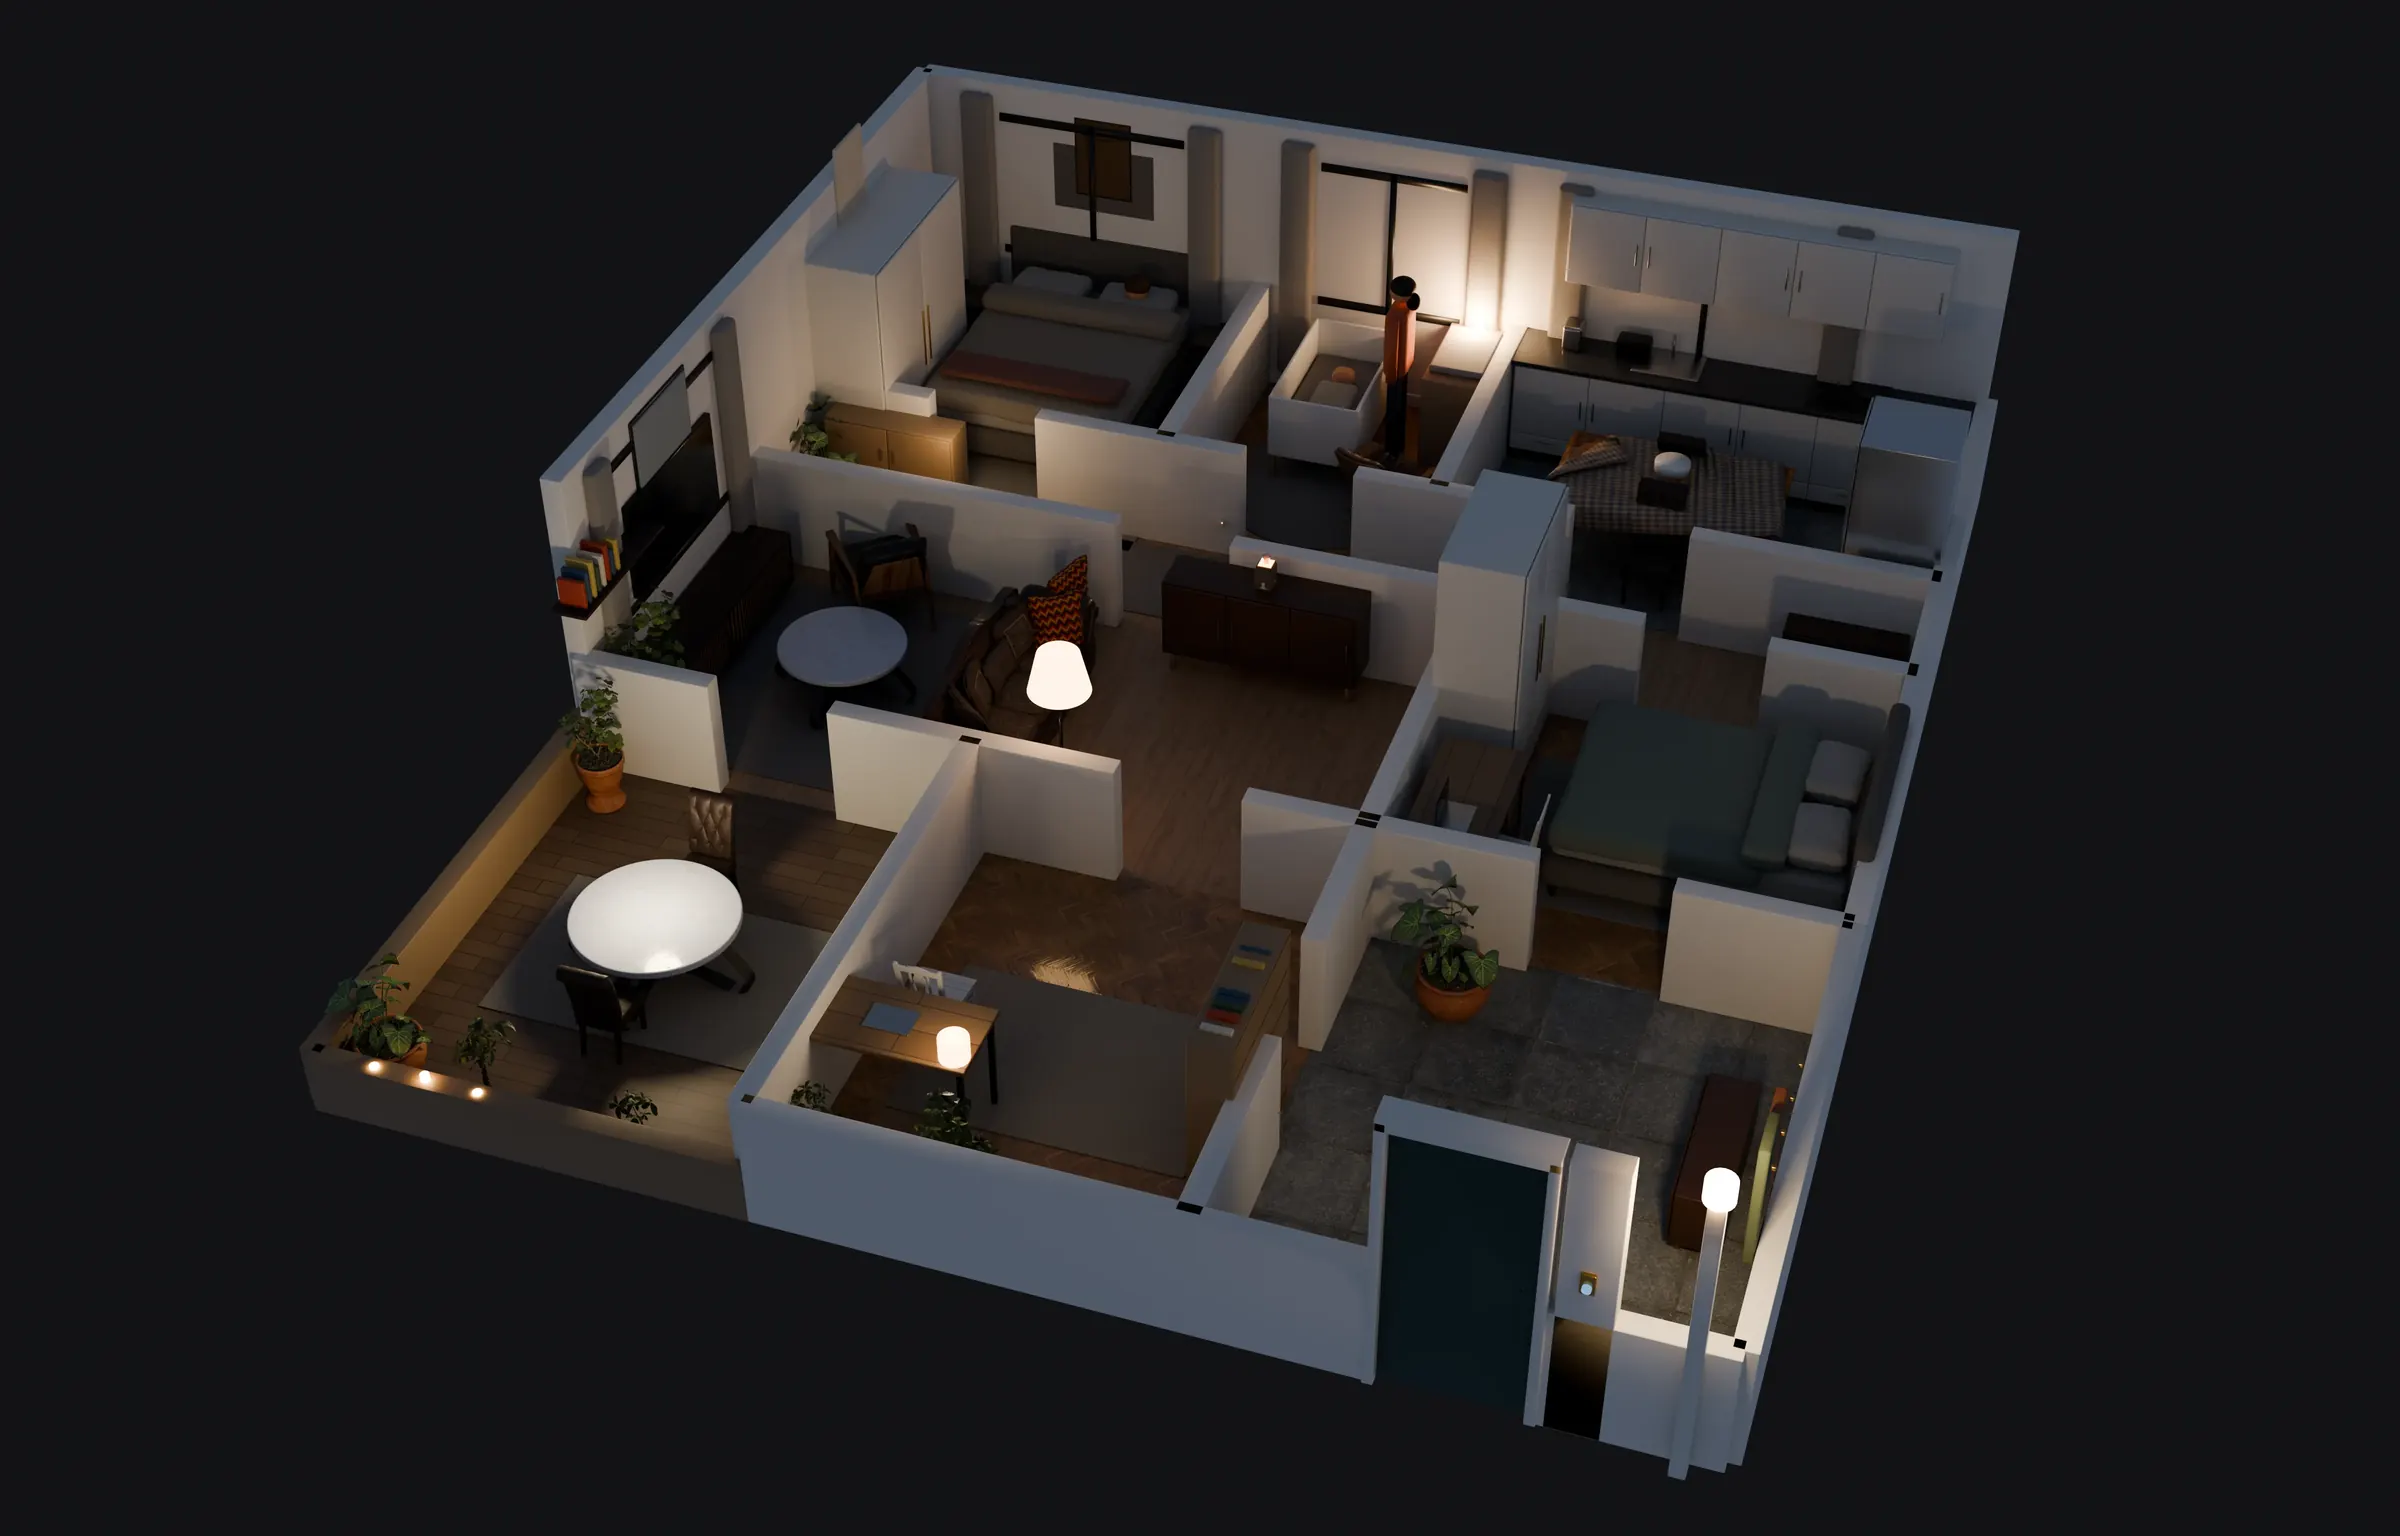
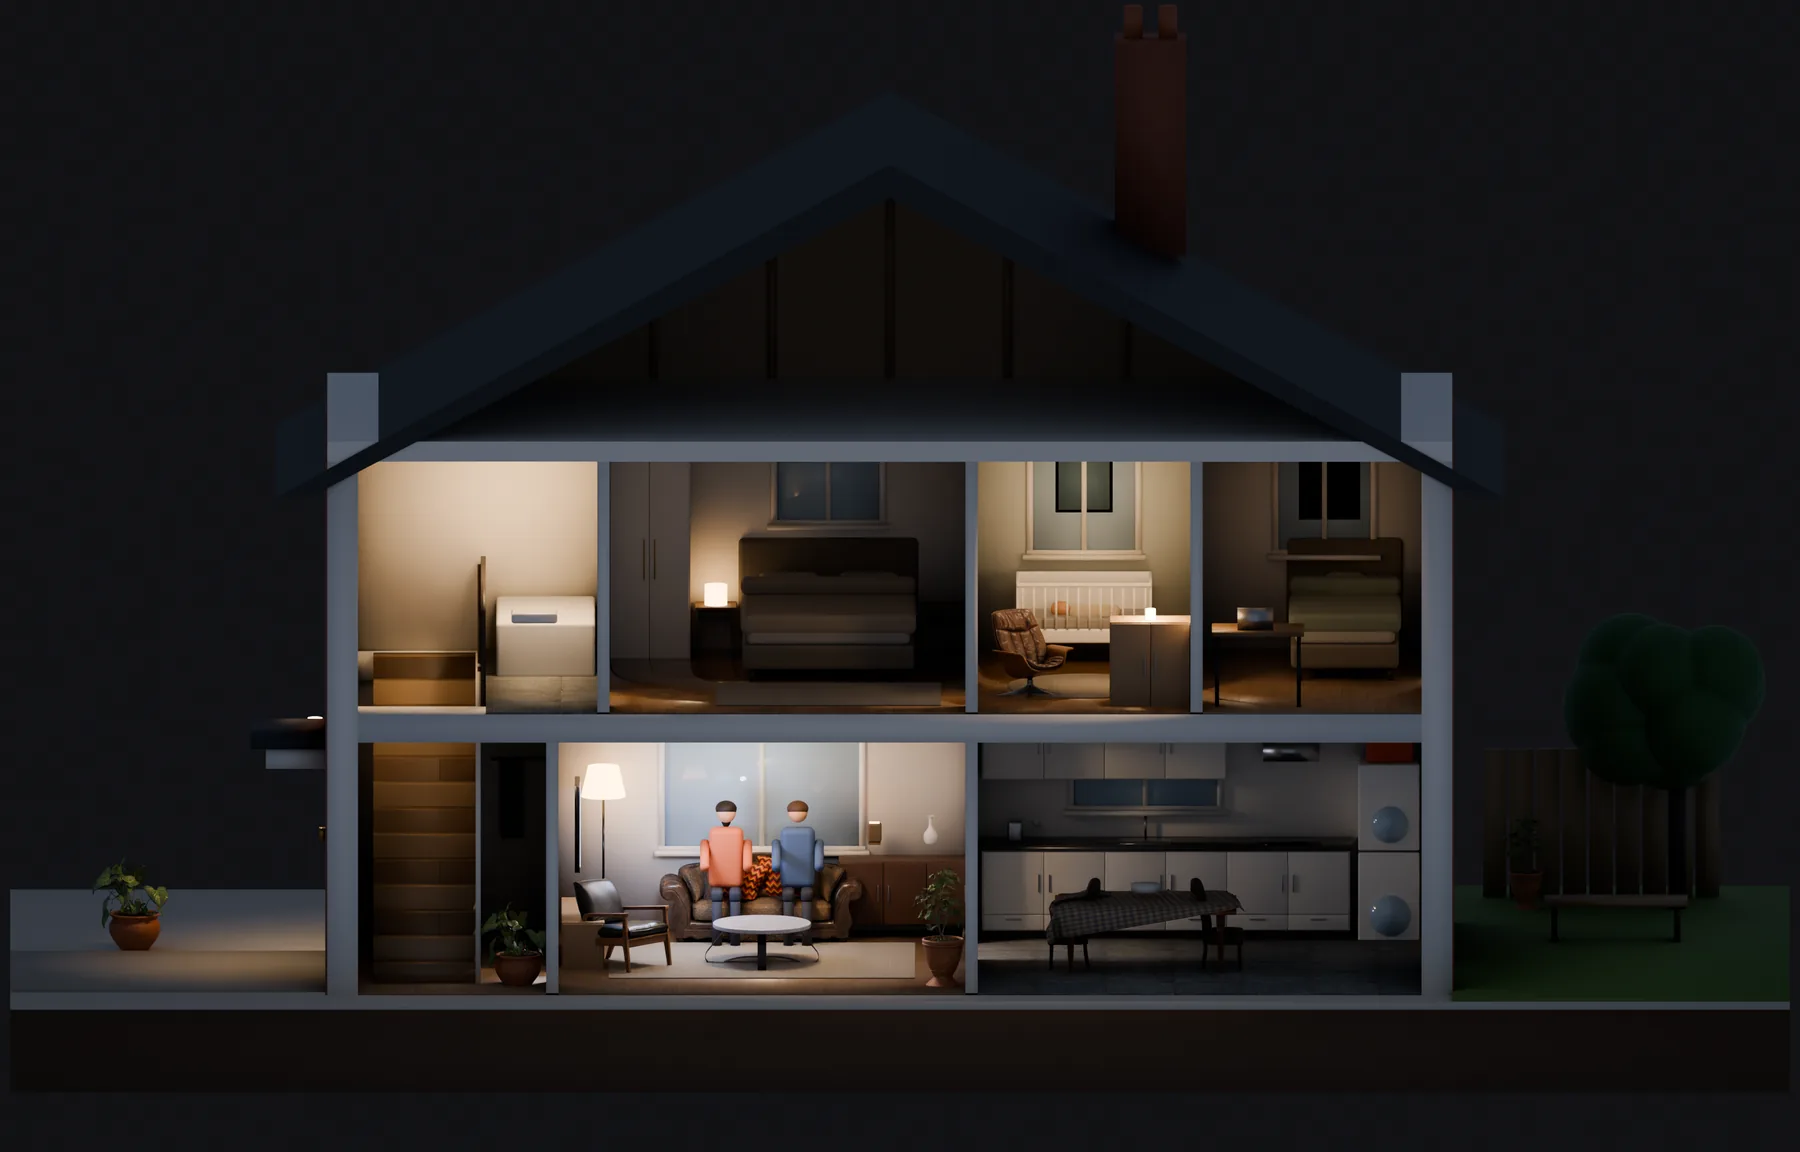
A day with Adam: two-storey cutaway house with a pin on each moment, wider view on desktop

diff --git a/index.html b/index.html
@@ -25,7 +25,7 @@
   <meta name="twitter:description" content="Adam is a £299 home speaker with no cameras. It hears falls, smoke and CO alarms, knocks, glass breaking and a baby crying, then alerts the right person.">
   <meta name="twitter:image" content="https://www.heyintuitive.com/og.png?v=2">
   <link rel="preload" href="assets/fonts/geist.woff2" as="font" type="font/woff2" crossorigin>
-  <link rel="stylesheet" href="site.css?v=203">
+  <link rel="stylesheet" href="site.css?v=204">
   <script>(function(){var c='js opgo';try{if(sessionStorage.getItem('op')||location.hash)c+=' opdone';}catch(e){}document.documentElement.className=c;})();</script>
   <script type="application/ld+json">{"@context": "https://schema.org", "@graph": [{"@type": "Organization", "@id": "https://www.heyintuitive.com/#org", "name": "Intuitive Devices", "alternateName": ["heyintuitive"], "url": "https://www.heyintuitive.com/", "logo": "https://www.heyintuitive.com/logo.png", "image": "https://www.heyintuitive.com/og.png?v=2", "description": "Intuitive Devices is a UK start-up making Adam, a home speaker with no cameras that hears falls, alarms and other events at home and tells the right person.", "address": {"@type": "PostalAddress", "addressCountry": "GB"}, "areaServed": "GB", "email": "support@heyintuitive.com", "contactPoint": {"@type": "ContactPoint", "contactType": "customer support", "email": "support@heyintuitive.com", "areaServed": "GB", "availableLanguage": "en-GB"}}, {"@type": "WebSite", "@id": "https://www.heyintuitive.com/#website", "url": "https://www.heyintuitive.com/", "name": "Adam by Intuitive Devices", "inLanguage": "en-GB", "publisher": {"@id": "https://www.heyintuitive.com/#org"}}, {"@type": "Product", "@id": "https://www.heyintuitive.com/#adam", "name": "Adam", "alternateName": "Adam by Intuitive Devices", "category": "Smart speaker / home safety device", "description": "Adam is a smart speaker with sensors and no cameras. It hears what happens at home (a fall, smoke and CO alarms, a knock at the door, glass breaking, a baby crying), knows who is in which room, and tells the right person. If Adam hears a fall and gets no answer, it alerts family and then calls 999. The sound itself never leaves the home. It also orders and books with your OK, sends messages and emails, keeps the family calendar, gives a morning briefing, runs reminders and routines, answers out loud, and works with your existing AI assistant, apps and smart devices.", "image": ["https://www.heyintuitive.com/og.png?v=2", "https://www.heyintuitive.com/frames/box.webp?v=15"], "brand": {"@type": "Brand", "name": "Intuitive Devices"}, "manufacturer": {"@id": "https://www.heyintuitive.com/#org"}, "color": "Charcoal, Chalk, Sand", "additionalProperty": [{"@type": "PropertyValue", "name": "Cameras", "value": "None"}, {"@type": "PropertyValue", "name": "Subscription", "value": "Not required"}, {"@type": "PropertyValue", "name": "Detects", "value": "Falls, smoke and CO alarms, knocks at the door, glass breaking, a baby crying, who is in which room"}], "offers": {"@type": "Offer", "url": "https://www.heyintuitive.com/#who", "price": "299.00", "priceCurrency": "GBP", "availability": "https://schema.org/PreOrder", "availabilityStarts": "2027-07-01", "eligibleRegion": {"@type": "Country", "name": "GB"}, "seller": {"@id": "https://www.heyintuitive.com/#org"}}}, {"@type": "FAQPage", "@id": "https://www.heyintuitive.com/#faq", "mainEntity": [{"@type": "Question", "name": "How much is it?", "acceptedAnswer": {"@type": "Answer", "text": "£299 for everything in the box, with no subscription. Test homes from the waitlist get £100 off, so they pay £199."}}, {"@type": "Question", "name": "When can I get one?", "acceptedAnswer": {"@type": "Answer", "text": "Adam ships in the second half of 2027. Join the waitlist and we will email you before anyone else, including whether your home is one of the test homes."}}, {"@type": "Question", "name": "Does Adam have cameras?", "acceptedAnswer": {"@type": "Answer", "text": "No. Adam hears and senses the room. Nothing in it can see."}}, {"@type": "Question", "name": "Does my audio go to the cloud?", "acceptedAnswer": {"@type": "Answer", "text": "No. The sound itself never leaves your home, and nor does what Adam knows about your household. When you ask Adam something, it turns your words into text, and only that text goes online so your assistant can answer."}}, {"@type": "Question", "name": "Does it really call 999?", "acceptedAnswer": {"@type": "Answer", "text": "Yes. If Adam hears a fall, it asks the person if they are okay. If there is no answer within about 30 seconds, it alerts your family, and if they do not respond, it calls 999. Saying “I’m fine” stops it at any point. If both your Wi-Fi and your phone’s hotspot are down, Adam sounds an alarm out loud so someone nearby hears."}}, {"@type": "Question", "name": "Can I keep using the assistant I already have?", "acceptedAnswer": {"@type": "Answer", "text": "Yes. Adam works with different AI assistants, so you can keep the one you already use."}}, {"@type": "Question", "name": "How does it know which room someone is in?", "acceptedAnswer": {"@type": "Answer", "text": "Adam senses sound, air, light and presence in each room. It knows the room, never your exact position."}}, {"@type": "Question", "name": "What if the power or Wi-Fi goes off?", "acceptedAnswer": {"@type": "Answer", "text": "Adam runs on mains power, like any smart speaker. If your Wi-Fi drops, it carries on through your phone’s hotspot."}}]}]}</script>
 </head>
@@ -198,7 +198,7 @@
   <script src="inside/data.js?v=3"></script>
   <script src="inside.js?v=30"></script>
   <script src="family.js?v=38"></script>
-  <script src="day.js?v=35"></script>
+  <script src="day.js?v=36"></script>
   <script src="works.js?v=15"></script>
   <script src="motion.js?v=6"></script>
   <script defer src="https://static.cloudflareinsights.com/beacon.min.js" data-cf-beacon='{"token": "fa91610f67df4fe6930c70fdb61ca0b7"}'></script>

diff --git a/day.js b/day.js
@@ -3,9 +3,9 @@
   if (!track) return;
   var IMG = { w: 3200, h: 2048 };
   var SMALL = Math.min(window.innerWidth, window.innerHeight) < 820;
+  // where each moment happens in the cutaway render (render/cutaway.py writes these to cut_pts.json)
   var P = {
-    cot: [0.5565, 0.2551], table: [0.6968, 0.3041], entry: [0.634, 0.758], door: [0.6085, 0.8603],
-    hob: [0.7682, 0.2527], kitchen: [0.7105, 0.3413], hallway: [0.5622, 0.3959], bedroom: [0.4357, 0.2549], fall: [0.5278, 0.4873]
+    kit: [0.7722, 0.6595], door: [0.1591, 0.7378], hob: [0.7159, 0.7305], fall: [0.392, 0.8272], cot: [0.6023, 0.5203]
   };
   var OUTS = {
     s1: ['Maya is up. Dan sleeps on.', 'Dan is up. Maya sleeps on.'], s2: ['Theo has it.'], s3: ['Gran has been reminded.', 'Maya has been told.'],
@@ -20,19 +20,19 @@
     s6: [['Maya', 'Gran has fallen in the living room and is not answering.', 'red'], ['Maya', 'Gran is okay. Adam will keep listening.']], s7: [['Dan', 'June’s bath is yours tonight.'], ['Maya', 'Can you take June’s bath?']], s8: [null]
   };
   var S = [
-    { img: 's2', time: '6:50 am', head: 'Kit day.', bg: '#e3d9cc', dark: false, at: 'table', z: 2.2,
+    { img: 's2', time: '6:50 am', head: 'Kit day.', bg: '#cdc9c4', dark: false, at: 'kit', z: 1.15,
       narr: 'Adam remembers what the family has told it, and says it at the moment it matters.',
       from: 'Adam', msg: 'Today is PE. Theo’s kit is by the dryer.', chips: ['Thanks'], pick: 0, done: 'Reminding Theo.' },
-    { img: 's4', time: '11:30 am', head: 'A knock at the door.', bg: '#ebe8e1', dark: false, at: 'door', z: 2.2,
+    { img: 's4', time: '11:30 am', head: 'A knock at the door.', bg: '#cfcecb', dark: false, at: 'door', z: 1.15,
       narr: 'Dan is in the garden and cannot hear the door. Adam hears the knock and tells him.',
       from: 'Adam', msg: 'Someone is knocking at the front door.', chips: ['Tell Dan', 'Leave it'], pick: 0, done: 'Telling Dan. He is on his way.' },
-    { img: 's5', time: '2:15 pm', head: 'The smoke alarm.', bg: '#ebe8e1', dark: false, at: 'hob', z: 2.2,
+    { img: 's5', time: '2:15 pm', head: 'The smoke alarm.', bg: '#cfcecb', dark: false, at: 'hob', z: 1.15,
       narr: 'Adam always listens for smoke and CO alarms, day and night.',
       from: 'Adam', msg: 'The smoke alarm is sounding in the kitchen.', chips: ['Call Dan', 'Call Maya'], pick: 0, done: 'Dan has headphones on upstairs. Calling him now.' },
-    { img: 's6', time: '5:45 pm', head: 'A fall.', bg: '#2e2a26', dark: true, at: 'fall', z: 2.2,
+    { img: 's6', time: '5:45 pm', head: 'A fall.', bg: '#2a2521', dark: true, at: 'fall', z: 1.15,
       narr: 'Adam listens for the sounds that mean something is wrong, and gets the right person there on time.',
       from: 'Adam', msg: 'I heard a fall in the living room. Gran is not answering.', chips: ['Tell Maya and Dan', 'She’s okay'], pick: 0, done: 'Telling Maya and Dan. Calling 999 if they do not answer.' },
-    { img: 's1', time: '9:40 pm', head: 'June is awake.', bg: '#131316', dark: true, at: 'cot', z: 2.2,
+    { img: 's1', time: '9:40 pm', head: 'June is awake.', bg: '#111215', dark: true, at: 'cot', z: 1.15,
       narr: 'Maya and Dan are downstairs with the TV on. Adam hears June upstairs and tells them.',
       from: 'Adam', msg: 'June is crying in the nursery.', chips: ['Maya', 'Dan'], pick: 0, done: 'Telling Maya. It is her turn tonight.' }
   ];
@@ -42,9 +42,19 @@
   var cam = document.createElement('div'); cam.className = 'day-cam day-strip'; scroller.appendChild(cam);
   var panels = S.map(function () { var d = document.createElement('div'); d.className = 'day-panel'; cam.appendChild(d); return d; });
   var imgs = S.map(function (s, i) {
-    var im = document.createElement('img'); im.src = (SMALL ? s.img.replace(/^\.\.\//, '../sm/').replace(/^s/, 'sm/s') : s.img) .replace(/^/, 'day/story/') + '.webp?v=4'; im.className = 'day-img'; im.decoding = 'async'; if (i) im.loading = 'lazy';
-    im.alt = i === 0 ? 'A three-dimensional cutaway of a family home with Adam in it' : ''; if (i) im.setAttribute('aria-hidden', 'true');
+    var im = document.createElement('img'); im.src = (SMALL ? s.img.replace(/^\.\.\//, '../sm/').replace(/^s/, 'sm/s') : s.img) .replace(/^/, 'day/story/') + '.webp?v=5'; im.className = 'day-img'; im.decoding = 'async'; if (i) im.loading = 'lazy';
+    im.alt = i === 0 ? 'A cutaway of a two-storey family home, with Adam on the living-room sideboard' : ''; if (i) im.setAttribute('aria-hidden', 'true');
     panels[i].appendChild(im); return im;
+  });
+  // a pin on the house for every moment; tapping one goes there
+  var pins = panels.map(function (pn, i) {
+    return S.map(function (s, k) {
+      var b = document.createElement('button'); b.type = 'button'; b.className = 'day-pin' + (k === i ? ' cur' : '');
+      b.setAttribute('aria-label', s.time + ', ' + s.head.replace(/\.$/, '')); b.innerHTML = '<i></i><span>' + s.time + '</span>';
+      if (k === i) b.tabIndex = -1;
+      b.addEventListener('click', function () { go(k); });
+      pn.appendChild(b); return b;
+    });
   });
   var afters = S.map(function (s, i) {
     if (!s.after) return null;
@@ -78,7 +88,10 @@
         var l = Math.min(0, Math.max(geo.W - w, geo.W / 2 - f.z * f.x * geo.iw)), t = Math.min(0, geo.H / 2 - f.z * f.y * geo.ih);
         im.style.width = w + 'px'; im.style.height = h + 'px';
         im.style.left = l + 'px'; im.style.top = t + 'px';
-        if (im === imgs[i]) geo['spot' + i] = [l + f.z * f.x * geo.iw, t + f.z * f.y * geo.ih];
+        if (im === imgs[i]) {
+          geo['spot' + i] = [l + f.z * f.x * geo.iw, t + f.z * f.y * geo.ih];
+          pins[i].forEach(function (b, k) { var q = P[S[k].at]; b.style.left = (l + f.z * q[0] * geo.iw) + 'px'; b.style.top = (t + f.z * q[1] * geo.ih) + 'px'; });
+        }
         im.style.transformOrigin = (f.x * 100) + '% ' + (f.y * 100) + '%';
       });
     });

diff --git a/site.css b/site.css
@@ -1315,3 +1315,15 @@ h2.what-l { font-size: clamp(30px, 4.2vw, 56px); }
 @media (min-width: 1000px) { #make .product-wrap { margin-right: calc(var(--pad) * -1); } }
 .hero-for .for-word { display: inline-block; min-width: 0; width: auto; white-space: nowrap; }
 @media (max-width: 720px) { .day-card .dc-msg { font-size: 14px; line-height: 20px; } .day-card .dc-done { font-size: 13px; line-height: 18px; } .day-stage > .day-card { width: min(250px, calc(100vw - 80px)); } .day-note { font-size: 14px; } }
+
+/* a day with Adam: pins on the cutaway house, one per moment */
+.day-pin { position: absolute; z-index: 3; width: 44px; height: 44px; margin: -22px 0 0 -22px; padding: 0; border: 0; background: none; cursor: pointer; }
+.day-pin i { position: absolute; left: 50%; top: 50%; width: 18px; height: 18px; margin: -9px 0 0 -9px; border-radius: 50%; background: var(--acc); box-shadow: 0 0 0 4px rgba(255, 253, 249, 0.92), 0 4px 14px rgba(0, 0, 0, 0.35); transition: transform 250ms var(--ease); }
+.day-pin i::after { content: ""; position: absolute; inset: -4px; border-radius: 50%; border: 2px solid rgba(255, 253, 249, 0.9); animation: pinPulse 2.2s var(--ease) infinite; }
+.day-pin span { position: absolute; left: 50%; bottom: calc(100% - 2px); transform: translate(-50%, 4px); padding: 4px 9px; border-radius: 999px; background: rgba(255, 253, 249, 0.96); color: #201E1B; font-size: 13px; line-height: 18px; font-weight: 600; white-space: nowrap; opacity: 0; pointer-events: none; transition: opacity 200ms var(--ease), transform 200ms var(--ease); }
+.day-pin:hover i, .day-pin:focus-visible i { transform: scale(1.2); }
+.day-pin:hover span, .day-pin:focus-visible span { opacity: 1; transform: translate(-50%, 0); }
+.day-pin:focus-visible { outline: 2px solid #fff; outline-offset: 2px; border-radius: 50%; }
+.day-pin.cur { display: none; }
+@keyframes pinPulse { 0% { transform: scale(1); opacity: 0.9; } 100% { transform: scale(2.2); opacity: 0; } }
+@media (prefers-reduced-motion: reduce) { .day-pin i::after { animation: none; } }
